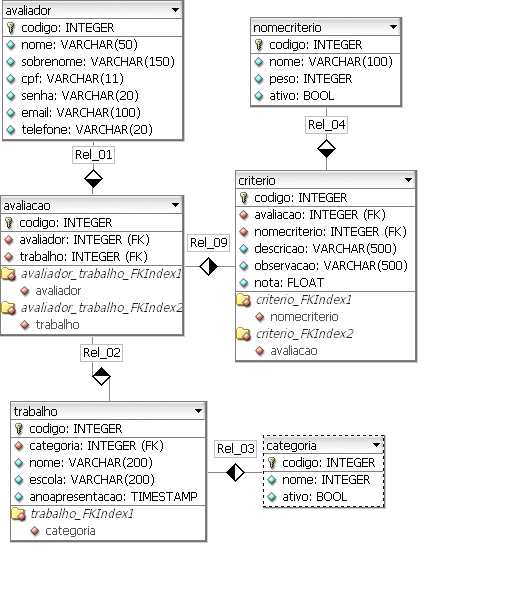
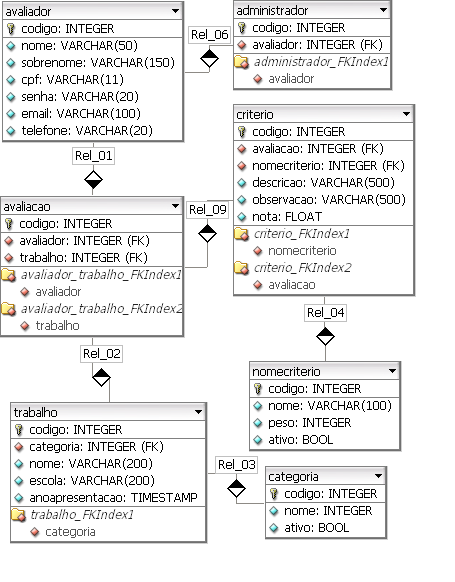
feat(login controller)

Changed region(s): [[0.0, 0.0, 0.9231, 0.9588]]

diff --git a/WebApi/MoticAvaliacao/DAO/motic_avaliacaoContext.cs b/WebApi/MoticAvaliacao/DAO/motic_avaliacaoContext.cs
@@ -17,6 +17,7 @@ namespace DAO
         {
         }
 
+        public virtual DbSet<Administrador> Administradors { get; set; }
         public virtual DbSet<Avaliacao> Avaliacaos { get; set; }
         public virtual DbSet<Avaliador> Avaliadors { get; set; }
         public virtual DbSet<Categorium> Categoria { get; set; }
@@ -26,11 +27,38 @@ namespace DAO
 
         protected override void OnConfiguring(DbContextOptionsBuilder optionsBuilder)
         {
+            if (!optionsBuilder.IsConfigured)
+            {
+#warning To protect potentially sensitive information in your connection string, you should move it out of source code. You can avoid scaffolding the connection string by using the Name= syntax to read it from configuration - see https://go.microsoft.com/fwlink/?linkid=2131148. For more guidance on storing connection strings, see http://go.microsoft.com/fwlink/?LinkId=723263.
+                optionsBuilder.UseNpgsql("User ID=postgres;Password=senha;Server=127.0.0.1;Port=5432;Database=motic_avaliacao;Integrated Security=true;");
+            }
         }
 
         protected override void OnModelCreating(ModelBuilder modelBuilder)
         {
             modelBuilder.HasAnnotation("Relational:Collation", "pt_BR.UTF-8");
+
+            modelBuilder.Entity<Administrador>(entity =>
+            {
+                entity.HasKey(e => e.Codigo)
+                    .HasName("administrador_pkey");
+
+                entity.ToTable("administrador");
+
+                entity.HasIndex(e => e.Avaliador, "administrador_fkindex1");
+
+                entity.HasIndex(e => e.Avaliador, "ifk_rel_06");
+
+                entity.Property(e => e.Codigo).HasColumnName("codigo");
+
+                entity.Property(e => e.Avaliador).HasColumnName("avaliador");
+
+                entity.HasOne(d => d.AvaliadorNavigation)
+                    .WithMany(p => p.Administradors)
+                    .HasForeignKey(d => d.Avaliador)
+                    .OnDelete(DeleteBehavior.ClientSetNull)
+                    .HasConstraintName("administrador_avaliador_fkey");
+            });
 
             modelBuilder.Entity<Avaliacao>(entity =>
             {

diff --git a/WebApi/MoticAvaliacao/API/Startup.cs b/WebApi/MoticAvaliacao/API/Startup.cs
@@ -22,9 +22,7 @@ namespace API
         {
             Configuration = configuration;
         }
-
         public IConfiguration Configuration { get; }
-
         public void ConfigureServices(IServiceCollection services)
         {
             AdicionarControladores(services);
@@ -33,30 +31,27 @@ namespace API
             RealizarInjecaoDeDependeciasDAL(services);
             DefinirConfiguracaoSwagger(services);
         }
-
         public static void RealizarInjecaoDeDependenciasBLL(IServiceCollection services)
-        {
+        {  
+            services.AddScoped<ILoginBLL, LoginBLL>();
             services.AddScoped<IRequisicao, Requisicao>();
             services.AddScoped<ICadastroBLL, CadastroBLL>();
             services.AddScoped<IAvaliacaoBLL, AvaliacaoBLL>();
         }
-
         public static void RealizarInjecaoDeDependeciasDAL(IServiceCollection services)
         {
+            services.AddScoped<ILoginDAL, LoginDAL>();
             services.AddScoped<ICadastroDAL, CadastroDAL>();
             services.AddScoped<IAvaliacaoDAL, AvaliacaoDAL>();
         }
-
         private static void AdicionarDataContext(IServiceCollection services, string connectionString)
         {
             services.AddDbContext<motic_avaliacaoContext>(options => options.UseNpgsql(connectionString));
         }
-
         private static void AdicionarControladores(IServiceCollection services)
         {
             services.AddControllers();
         }
-
         private static void DefinirConfiguracaoSwagger(IServiceCollection services)
         {
             services.AddSwaggerGen(options =>
@@ -65,7 +60,6 @@ namespace API
                 options.CustomOperationIds(d => (d.ActionDescriptor as ControllerActionDescriptor)?.ActionName);
             });
         }
-
         public void Configure(IApplicationBuilder app, IWebHostEnvironment env)
         {
             if (env.IsDevelopment())

diff --git a/WebApi/MoticAvaliacao/BLL/CadastroBLL.cs b/WebApi/MoticAvaliacao/BLL/CadastroBLL.cs
@@ -13,10 +13,6 @@ namespace BLL
         public CadastroBLL(ICadastroDAL dal)
         {
             DAL = dal;
-        }      
-        public async Task<RetornoDTO<bool>> CadastrarCriterio(CriterioDTO criterioDTO)
-        {
-            return new RetornoDTO<bool>();
         }
         public async Task<RetornoDTO<bool>> CadastrarAvaliador(AvaliadorDTO avaliadorDTO)
         {
@@ -25,22 +21,27 @@ namespace BLL
         public async Task<RetornoDTO<bool>> CadastrarCategoria(CategoriaDTO trabalhoDTO)
         {
             return new RetornoDTO<bool>();
+        }    
+        public async Task<RetornoDTO<bool>> CadastrarCriterio(CriterioDTO criterioDTO)
+        {
+            return new RetornoDTO<bool>();
         }
         public async Task<RetornoDTO<bool>> CadastrarTrabalho(TrabalhoDTO trabalhoDTO)
         {
             return new RetornoDTO<bool>();
         }
+        
         public async Task<RetornoDTO<List<AvaliadorDTO>>> ListarAvaliadores(ValorDTO cpf = null)
         {
             return new RetornoDTO<List<AvaliadorDTO>>();
         }
-        public async Task<RetornoDTO<List<CriterioDTO>>> ListarCriterios(ValorDTO nomeCriterio = null)
-        {
-            return new RetornoDTO<List<CriterioDTO>>();
-        }
         public async Task<RetornoDTO<List<CategoriaDTO>>> ListarCategorias(ValorDTO nomeCategoria = null)
         {
             return new RetornoDTO<List<CategoriaDTO>>();
+        }
+        public async Task<RetornoDTO<List<CriterioDTO>>> ListarCriterios(ValorDTO nomeCriterio = null)
+        {
+            return new RetornoDTO<List<CriterioDTO>>();
         }
         public async Task<RetornoDTO<List<TrabalhoDTO>>> ListarTrabalhos(ValorDTO nomeTrabalho = null)
         {

diff --git a/WebApi/MoticAvaliacao/API/Controllers/Login.cs b/WebApi/MoticAvaliacao/API/Controllers/Login.cs
@@ -1,0 +1,33 @@
+using System.Threading.Tasks;
+using Microsoft.AspNetCore.Mvc;
+
+using DTO;
+using BLL.Interface;
+using API.Interface;
+
+namespace API.Controllers
+{
+    [ApiController]
+    [Route("motic/[controller]")]
+    public class Login
+    {
+        private ILoginBLL BLL { get; set; }
+        private IRequisicao Requisicao { get; set; }
+        public Login(ILoginBLL bll, IRequisicao requisicao)
+        {
+            BLL = bll;
+            Requisicao = requisicao;
+        }
+
+        [HttpPost("LoginAdministrador")]
+        public async Task<RetornoDTO<bool>> LoginAdministrador(LoginDTO loginDTO)
+        {
+            return Requisicao.ExecutarRequisicao<LoginDTO, bool>(loginDTO, BLL.LoginAdministrador).Result;
+        }
+        [HttpPost("LoginAvaliador")]
+        public async Task<RetornoDTO<bool>> LoginAvaliador(LoginDTO loginDTO)
+        {
+            return Requisicao.ExecutarRequisicao<LoginDTO, bool>(loginDTO, BLL.LoginAvaliador).Result;
+        }
+    }
+}

diff --git a/WebApi/MoticAvaliacao/BLL/Interface/ICadastroBLL.cs b/WebApi/MoticAvaliacao/BLL/Interface/ICadastroBLL.cs
@@ -7,13 +7,14 @@ namespace BLL.Interface
 {
     public interface ICadastroBLL
     {
-        Task<RetornoDTO<bool>> CadastrarCriterio(CriterioDTO criterioDTO);
         Task<RetornoDTO<bool>> CadastrarAvaliador(AvaliadorDTO avaliadorDTO);
         Task<RetornoDTO<bool>> CadastrarCategoria(CategoriaDTO trabalhoDTO);
+        Task<RetornoDTO<bool>> CadastrarCriterio(CriterioDTO criterioDTO);
         Task<RetornoDTO<bool>> CadastrarTrabalho(TrabalhoDTO trabalhoDTO);
-        Task<RetornoDTO<List<CriterioDTO>>> ListarCriterios(ValorDTO nomeCriterio = null);
+        
         Task<RetornoDTO<List<AvaliadorDTO>>> ListarAvaliadores(ValorDTO cpf = null);
         Task<RetornoDTO<List<CategoriaDTO>>> ListarCategorias(ValorDTO nomeCategoria = null);
+        Task<RetornoDTO<List<CriterioDTO>>> ListarCriterios(ValorDTO nomeCriterio = null);
         Task<RetornoDTO<List<TrabalhoDTO>>> ListarTrabalhos(ValorDTO nomeTrabalho = null);
     }
 }

diff --git a/WebApi/MoticAvaliacao/API/Controllers/Avaliacao.cs b/WebApi/MoticAvaliacao/API/Controllers/Avaliacao.cs
@@ -1,9 +1,6 @@
-using System;
 using System.Collections.Generic;
-using System.Linq;
 using System.Threading.Tasks;
 using Microsoft.AspNetCore.Mvc;
-using Microsoft.Extensions.Logging;
 
 using DTO;
 using API.Interface;
@@ -21,12 +18,6 @@ namespace API.Controllers
         {
             BLL = bll;
             Requisicao = requisicao;
-        }
-
-        [HttpPost("LoginAvaliador")]
-        public async Task<RetornoDTO<bool>> LoginAvaliador(LoginDTO loginDTO)
-        {
-            return Requisicao.ExecutarRequisicao<LoginDTO, bool>(loginDTO, BLL.LoginAvaliador).Result;
         }
 
         [HttpPost("CadastrarAvalicao")]

diff --git a/WebApi/MoticAvaliacao/BLL/LoginBLL.cs b/WebApi/MoticAvaliacao/BLL/LoginBLL.cs
@@ -1,0 +1,25 @@
+using System.Threading.Tasks;
+
+using DTO;
+using DAL.Interface;
+using BLL.Interface;
+
+namespace BLL
+{
+    public class LoginBLL : ILoginBLL
+    {
+        private ILoginDAL DAL { get; set; }
+        public LoginBLL(ILoginDAL dAL)
+        {
+            DAL = dAL;
+        }
+        public async Task<RetornoDTO<bool>> LoginAdministrador(LoginDTO loginDTO)
+        {
+            return new RetornoDTO<bool>();
+        }
+        public async Task<RetornoDTO<bool>> LoginAvaliador(LoginDTO loginDTO)
+        {
+            return new RetornoDTO<bool>();
+        }
+    }
+}

diff --git a/WebApi/MoticAvaliacao/DAO/Avaliador.cs b/WebApi/MoticAvaliacao/DAO/Avaliador.cs
@@ -9,6 +9,7 @@ namespace DAO
     {
         public Avaliador()
         {
+            Administradors = new HashSet<Administrador>();
             Avaliacaos = new HashSet<Avaliacao>();
         }
 
@@ -20,6 +21,7 @@ namespace DAO
         public string Email { get; set; }
         public string Telefone { get; set; }
 
+        public virtual ICollection<Administrador> Administradors { get; set; }
         public virtual ICollection<Avaliacao> Avaliacaos { get; set; }
     }
 }

diff --git a/WebApi/MoticAvaliacao/BLL/AvaliacaoBLL.cs b/WebApi/MoticAvaliacao/BLL/AvaliacaoBLL.cs
@@ -14,10 +14,6 @@ namespace BLL
         {
             DAL = dal;
         }
-        public async Task<RetornoDTO<bool>> LoginAvaliador(LoginDTO loginDTO)
-        {
-            return new RetornoDTO<bool>();
-        }
         public async Task<RetornoDTO<bool>> CadastrarAvalicao(AvaliacaoDTO avaliacaoDTO)
         {
             return new RetornoDTO<bool>();

diff --git a/WebApi/MoticAvaliacao/DAO/Administrador.cs b/WebApi/MoticAvaliacao/DAO/Administrador.cs
@@ -1,0 +1,15 @@
+using System;
+using System.Collections.Generic;
+
+#nullable disable
+
+namespace DAO
+{
+    public partial class Administrador
+    {
+        public int Codigo { get; set; }
+        public int Avaliador { get; set; }
+
+        public virtual Avaliador AvaliadorNavigation { get; set; }
+    }
+}

diff --git a/WebApi/MoticAvaliacao/BLL/Interface/IAvaliacaoBLL.cs b/WebApi/MoticAvaliacao/BLL/Interface/IAvaliacaoBLL.cs
@@ -7,7 +7,6 @@ namespace BLL.Interface
 {
     public interface IAvaliacaoBLL
     {
-        Task<RetornoDTO<bool>> LoginAvaliador(LoginDTO loginDTO);
         Task<RetornoDTO<bool>> CadastrarAvalicao(AvaliacaoDTO avaliacaoDTO);
         Task<RetornoDTO<List<AvaliacaoDTO>>> ListarAvaliacoes();
     }

diff --git a/WebApi/MoticAvaliacao/BLL/Interface/ILoginBLL.cs b/WebApi/MoticAvaliacao/BLL/Interface/ILoginBLL.cs
@@ -1,0 +1,12 @@
+using System.Threading.Tasks;
+
+using DTO;
+
+namespace BLL.Interface
+{
+    public interface ILoginBLL
+    {
+        Task<RetornoDTO<bool>> LoginAdministrador(LoginDTO loginDTO);
+        Task<RetornoDTO<bool>> LoginAvaliador(LoginDTO loginDTO);
+    }
+}
